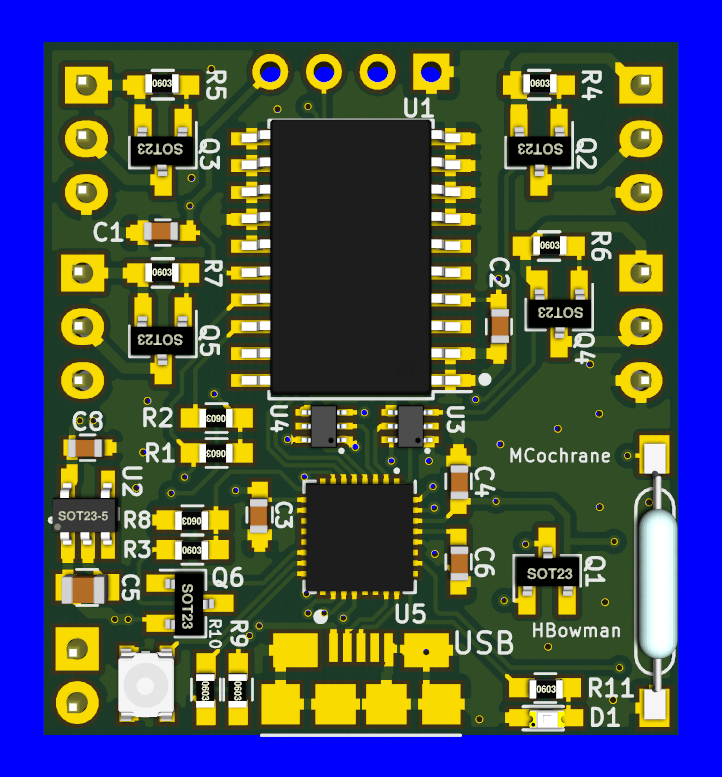
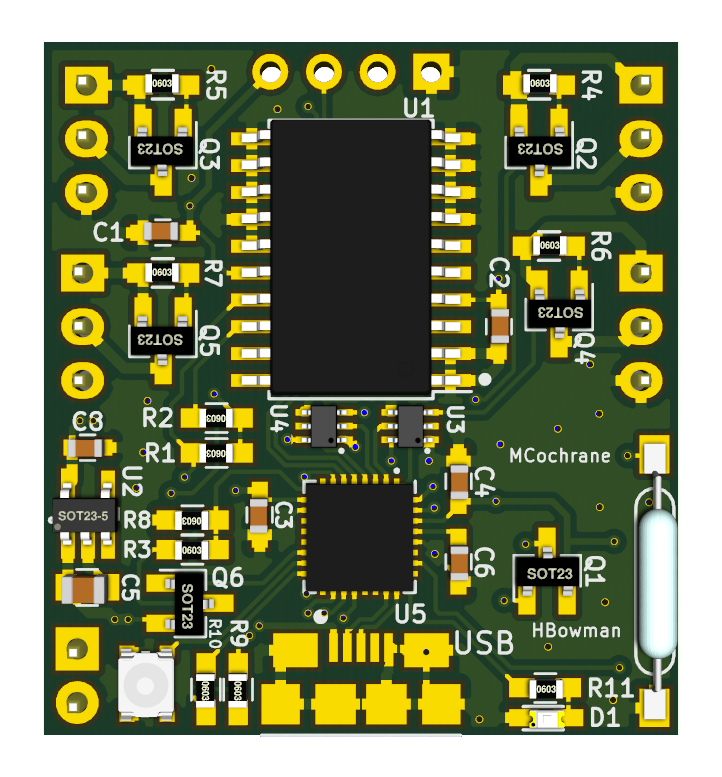
Update readme Update Rev1 renders

Changed region(s): [[0.0, 0.0, 1.0, 1.0], [0.518, 0.0927, 0.5485, 0.1236]]

diff --git a/README.md b/README.md
@@ -1,9 +1,20 @@
 # Open Source Timer Board Hardware
 #### Rev 1
 
+![Rev1 PCB](https://github.com/Wild-Spy/OSTBoardHardware/blob/master/Manufacturing%20Outputs/Rev1/renders/Angled.png)
+
 This repository contains the design for the Open Source Timer board.
 
 These files were created in [KiCad](http://kicad-pcb.org/) 
+
+Rev 1 contains
+ - Schematic
+ - PCB
+ - Gerbers
+ - BOM
+ - Renders
+ - Libs
+ - 3D Models
 
 ### Latest Version
 Latest version is [Rev0](https://github.com/Wild-Spy/OSTBoardHardware/tree/rev0).  See that tag for more info.
